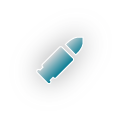
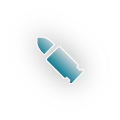
add bullet image with rotate

Changed region(s): [[0.3, 0.375, 0.7, 0.7], [0.55, 0.3, 0.7, 0.475], [0.3, 0.3, 0.45, 0.475]]

diff --git a/main/third_scene.py b/main/third_scene.py
@@ -1,7 +1,7 @@
 import pygame
 import os
 import random
-from math import sin, cos, pi, sqrt, pow, ceil
+from math import sin, cos, pi, sqrt, pow, ceil, atan
 import yaml
 
 def init():
@@ -106,8 +106,7 @@ class Back(pygame.sprite.Sprite):
 class Bullet(pygame.sprite.Sprite):
     def __init__(self):
         super().__init__()
-        self.image = pygame.Surface((50, 50))
-        self.image.fill("pink")
+        self.image = pygame.image.load(os.path.join("images/third_scene/ammo_icon.png")).convert_alpha()
         self.time = 0
         self.x = WIDTH
         self.y = HEIGHT + 30
@@ -118,10 +117,16 @@ class Bullet(pygame.sprite.Sprite):
         self.x_move = (abs(aim.rect.centerx - self.rect.centerx) / self.aim_bullet_length) * self.speed
         self.y_move = (abs(aim.rect.centery - self.rect.centery) / self.aim_bullet_length) * self.speed
         self.is_flying = False
+        self.is_rotated = False
+        self.angle = atan(abs(aim.rect.centery - self.rect.centery) / abs(aim.rect.centerx - self.rect.centerx))
 
     def update(self):
         global shooting
         if self.is_flying:
+            if not self.is_rotated:
+                self.image = pygame.transform.rotate(self.image, 45 - self.angle / pi * 180)
+                print(self.angle)
+                self.is_rotated = True
             self.rect.centerx -= self.x_move
             self.rect.centery -= self.y_move
             if balloon.rect.collidepoint(self.rect.center):
@@ -136,6 +141,8 @@ class Bullet(pygame.sprite.Sprite):
                 shooting = False
                 aim.__init__()
             if self.rect.centery <= 0 or self.rect.centerx <= 0:
+                self.image = pygame.image.load(os.path.join("images/third_scene/ammo_icon.png")).convert_alpha()
+                self.is_rotated = False
                 self.time += 1
                 self.rect.x = WIDTH            
                 self.rect.y = HEIGHT + 30
@@ -149,6 +156,7 @@ class Bullet(pygame.sprite.Sprite):
             self.x_move = abs(aim.rect.centerx - self.rect.centerx) / self.aim_bullet_length * self.speed
             self.y_move = abs(aim.rect.centery - self.rect.centery) / self.aim_bullet_length * self.speed
             self.aim_bullet_length = pow(pow(aim.rect.centerx - self.rect.centerx, 2) + pow(aim.rect.centery - self.rect.centery, 2), 0.5)
+            self.angle = atan(abs(aim.rect.centery - self.rect.centery) / abs(aim.rect.centerx - self.rect.centerx))
     # def reset(self):
     #     self.rect.centery = self.y
 
@@ -167,7 +175,7 @@ class Bullet(pygame.sprite.Sprite):
 class Aim(pygame.sprite.Sprite):
     def __init__(self):
         super().__init__()
-        self.image = pygame.image.load(os.path.join("images","crosshair.png")).convert_alpha()
+        self.image = pygame.image.load(os.path.join("images/third_scene/crosshair.png")).convert_alpha()
         #self.image = pygame.transform.scale(self.image, (100, 100))
         self.rect = self.image.get_rect()
         self.speed = 5
@@ -187,8 +195,8 @@ class Aim(pygame.sprite.Sprite):
 class Balloon(pygame.sprite.Sprite):
     def __init__(self):
         super().__init__()
-        self.image = pygame.image.load(os.path.join("images", "balloon(2).png")).convert_alpha()
-        self.image = pygame.transform.scale(self.image, (150, 150))
+        self.image = pygame.image.load(os.path.join("images/third_scene/balloon_red.png")).convert_alpha()
+        self.image = pygame.transform.scale(self.image, (183.6, 243.9)) # the ratio is 204:271
         self.rect = self.image.get_rect()
         self.paused = False
         self.change = True
@@ -200,7 +208,7 @@ class Balloon(pygame.sprite.Sprite):
         self.circle_speed = 3
         self.r = 150
         self.rect.centerx = x_center
-        self.rect.centery = HEIGHT / 8
+        self.rect.centery = HEIGHT / 4.5
         self.circle_centerx = self.rect.centerx 
         self.circle_centery = self.rect.centery + self.r
         self.check = True
